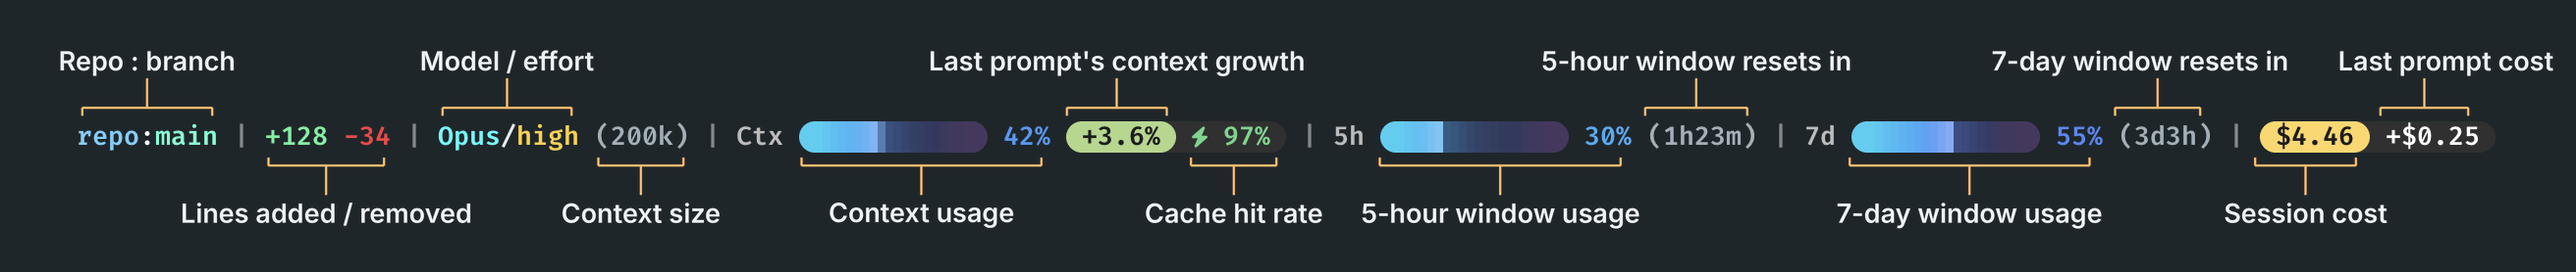
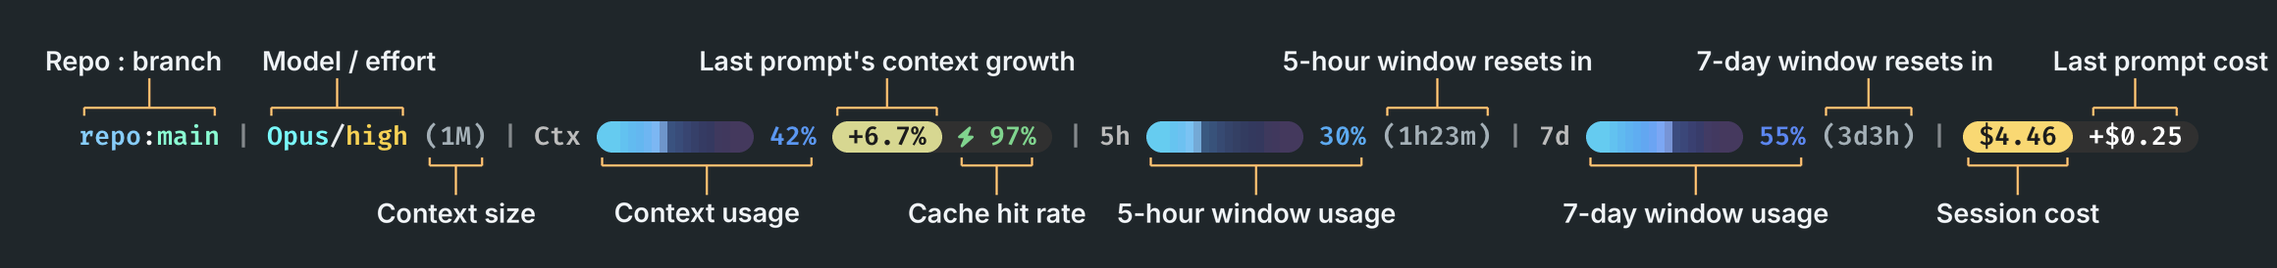
Link README to the published blog post and update annotated screenshot

diff --git a/README.md b/README.md
@@ -4,7 +4,7 @@ A status line for [Claude Code](https://claude.com/claude-code) that keeps a lon
 
 ![The status line, annotated](docs/statusline_annotated.png)
 
-Written up in [Put Your Claude Code Session's Vital Signs in the Status Line](https://zerofaultlabs.io/) on the ZeroFault Labs blog, which covers why each number is there.
+Written up in [A Status Line for Claude Code That Shows What Each Prompt Costs You](https://zerofaultlabs.io/claude-code-statusline/) on the ZeroFault Labs blog, which covers why each number is there.
 
 ## What it shows
 
